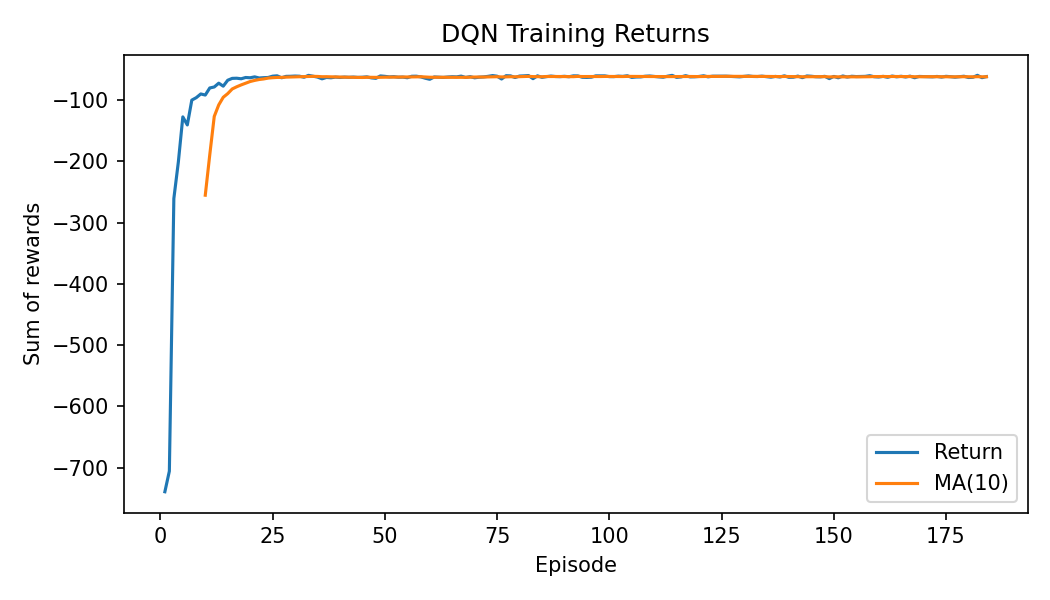
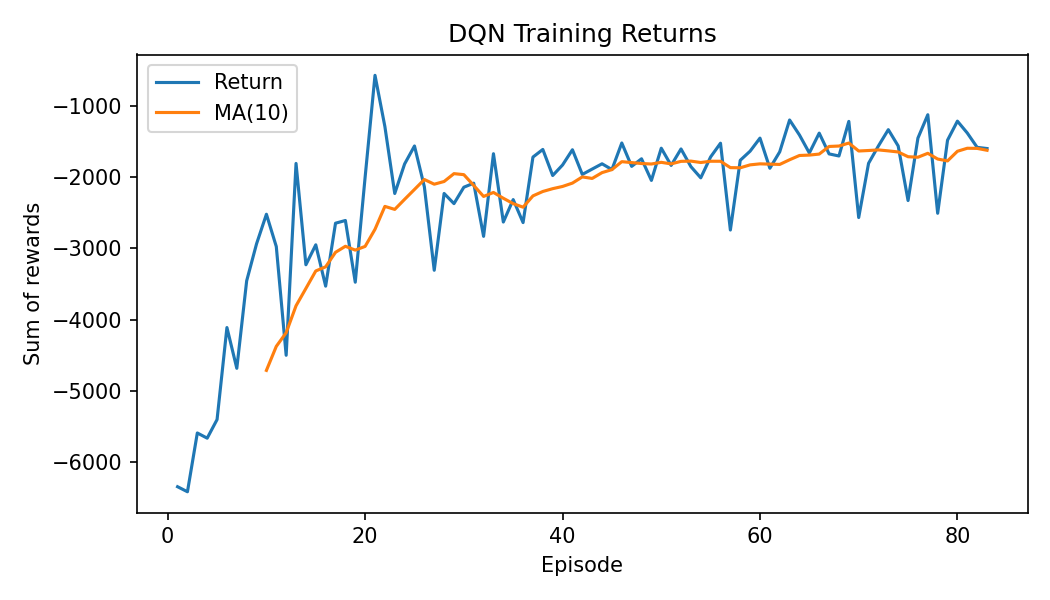
add tracking and improving car-following behavior

diff --git a/rl_mixed_traffic/env/ring_env.py b/rl_mixed_traffic/env/ring_env.py
@@ -37,7 +37,7 @@ class RingRoadEnv(gym.Env):
         sumo_config: SumoConfig,
         agent_id: str = "car1",
         gui: bool = False,
-        max_accel: float = 3.0,
+        max_accel: float = 8.0,
         min_accel: float = -3.0,
         episode_length: float = 500.0,
         num_vehicles: int = 3,
@@ -72,7 +72,7 @@ class RingRoadEnv(gym.Env):
         # What should be the good scenario for the controlling vehicle?
 
         self.cmd_speed = 0.0
-        self.v_max = 30.0
+        self.v_max = 50.0
 
     @property
     def action_space(self):
@@ -151,7 +151,6 @@ class RingRoadEnv(gym.Env):
         self.open_traci()
         self.step_count = 0
         self.cmd_speed = 0.0
-        self.v_max = 30.0
 
         # Warm up the simulation
         warmup = 0
@@ -160,7 +159,8 @@ class RingRoadEnv(gym.Env):
             warmup += 1
 
         if self.agent_id in traci.vehicle.getIDList():
-            self.v_max = traci.vehicle.getMaxSpeed(self.agent_id)
+            traci.vehicle.setSpeedMode(self.agent_id, 95)   # 0b1011111
+            traci.vehicle.setMaxSpeed(self.agent_id, self.v_max)
             v_now = traci.vehicle.getSpeed(self.agent_id)
             self.cmd_speed = max(0.5, min(v_now, self.v_max))
 
@@ -223,7 +223,7 @@ class RingRoadEnv(gym.Env):
             a = float(np.array(action, dtype=np.float32).reshape(-1)[0])
         else:
             a = float(action)
-        a = float(np.clip(a, self.min_accel, self.max_accel))
+            a = float(np.clip(a, self.min_accel, self.max_accel))
 
         if self.agent_id in traci.vehicle.getIDList():
             self.apply_acceleration(self.agent_id, a, smooth=False)
@@ -304,7 +304,6 @@ class RingRoadEnv(gym.Env):
         else:
             mean_v = traci.vehicle.getSpeed(self.agent_id)
 
-        # Ego + leader
         v_ego = traci.vehicle.getSpeed(self.agent_id)
         v_lead = 0.0
         d_gap = 1e9
@@ -312,20 +311,30 @@ class RingRoadEnv(gym.Env):
         if lead:
             lead_id, d_gap = lead
             v_lead = traci.vehicle.getSpeed(lead_id)
+        else:
+            try:
+                ids = list(traci.vehicle.getIDList())
+                pos = {vid: traci.vehicle.getDistance(vid) for vid in ids}
+                pos_ego = pos[self.agent_id]
+                deltas = [(vid, (pos[vid] - pos_ego)) for vid in ids if vid != self.agent_id]
+                ahead = [(vid, d) for vid, d in deltas if d > 0]
+                if ahead:
+                    lead_id, d_gap = min(ahead, key=lambda x: x[1])
+                else:
+                    lead_id, d_gap = min(deltas, key=lambda x: abs(x[1]))
+            except traci.TraCIException:
+                pass
 
-        # -------- Efficiency-forward terms --------
+        # print(f"Lead ID: {lead_id}, Gap: {d_gap}")
+
         # 1) progress (pay per distance)
         R_prog = v_ego / V_MAX
 
-        # 2) target-speed tracking (prefer fast cruise but don't ignore leader)
-        # v_star = min(0.9 * V_MAX, v_lead + 3.0)
-        # R_target = 1.0 - ((v_ego - v_star) / V_MAX) ** 2  # peaks at 1 when v≈v_star
-
-        # 3) platoon mean (small nudge upward)
+        # 2) platoon mean (small nudge upward)
         R_mean = (mean_v / V_MAX)
 
-        # 4) stronger penalty for lingering at low speed
-        v_thresh = 0.5 * V_MAX
+        # 3) stronger penalty for lingering at low speed
+        v_thresh = 0.7 * V_MAX
         R_low = - max(0.0, (v_thresh - v_ego) / max(1e-6, v_thresh))
 
         # Safety guardrail (small)
@@ -336,22 +345,53 @@ class RingRoadEnv(gym.Env):
         tau_safe = 0.6  # aggressive but nonzero
         R_ttc = -0.02 * ((tau_safe - ttc) / tau_safe) if ttc < tau_safe else 0.0
 
+        # 3) Tracking head vehicle (within the range)
+        gap_des = 7.5
+        gap_scale = max(1e-6, gap_des)
+        w_gap = 1.0 / (1.0 + (free_gap / gap_scale))
+
+        dv = v_ego - v_lead
+
+        # Speed match penalty
+        w_track = 0.6
+        R_track = - w_track * min(1.0, dv) * w_gap if lead_id is not None else 0.0
+
+        # Time headway -> penalize being too far
+        v_eps = 1e-6
+        TH = d_gap / max(v_ego, v_eps)
+
+        # Threshold for inefficiency (seconds)
+        TH_threshold = 2.5
+        r_th = -1.0 if TH >= TH_threshold else 0.0
+
+        # Penalize collisions
+        ego_collided = False
+        try:
+            collided_ids = set(traci.simulation.getCollidingVehiclesIDList())
+            ego_collided = (self.agent_id in collided_ids)
+        except Exception:
+            pass
+
+        R_collide = -100.0 if ego_collided else 0.0
+
         # Fuel consumption penalty
         # mpg = miles_per_gallen()
         # R_fuel = -0.1 * (1.0 / max(mpg, 1e-6))
 
-        # print(f"Step {self.step_count}: R_prog={R_prog:.3f}, R_mean={R_mean:.3f}, R_low={R_low:.3f}, R_ttc={R_ttc:.3f}")
+        # print(f"Step {self.step_count}: R_prog={R_prog:.3f}, R_mean={R_mean:.3f}, R_low={R_low:.3f}, R_ttc={R_ttc:.3f}, R_track={R_track:.3f}")
 
-        # Combine (weights emphasize efficiency)
         R = (
             1.0 * R_prog +
-            # 1.0 * R_target +
             0.5 * R_mean +
             0.7 * R_low +
-            0.15 * R_ttc
+            0.15 * R_ttc +
+            0.7 * R_track +
+            R_collide +
+            0.7 * r_th
             # 0.1 * R_fuel
         )
-        return float(np.clip(R, -2.0, 2.0))
+        return float(R)
+
 
     def terminal(self) -> bool:
         if self.step_count >= self.max_steps:

diff --git a/rl_mixed_traffic/dqn_train.py b/rl_mixed_traffic/dqn_train.py
@@ -20,7 +20,7 @@ def make_env(gui: bool=False, num_bins=21):
     env = DiscretizeActionWrapper(base_env, num_bins)
     return env
 
-def train(total_steps: int = 500_000, num_bins=21):
+def train(total_steps: int = 350_000, num_bins=21):
     env = make_env(gui=False, num_bins=num_bins)
 
     returns = []
@@ -44,25 +44,26 @@ def train(total_steps: int = 500_000, num_bins=21):
         s_next, r, done, _ = env.step(a)
         agent.buffer.append((s, a, r, s_next, done))
         loss = agent.learn()
-        losses.append(loss)
 
         s = s_next
         ep_ret += r
         ep_len += 1
 
         if done:
-            print(f"Step: {t}, Episode Return: {ep_ret}, Episode Length: {ep_len}")
+            print(f"Step: {t}, Episode Return: {ep_ret}, Episode Length: {ep_len}, Epsilon: {agent.epsilon():.3f}")
             returns.append(ep_ret)
+            if loss is not None:
+                losses.append(float(loss))
             s, _ = env.reset()
             ep_ret, ep_len = 0.0, 0
 
-    agent.save("dqn_agent.pth")
+    agent.save("dqn_results/dqn_agent.pth")
     env.close()
 
     # Plot training losses
     plot_losses(
         losses,
-        out_path="dqn_training_losses.png",
+        out_path="dqn_results/dqn_training_losses.png",
         title="DQN Training Losses"
     )
     return returns

diff --git a/rl_mixed_traffic/configs/dqn_config.py b/rl_mixed_traffic/configs/dqn_config.py
@@ -4,16 +4,15 @@ import torch
 @dataclass
 class DQNConfig:
     gamma: float = 0.99
-    lr: float = 3e-4
+    lr: float =5e-4
     batch_size: int = 128
     buffer_size: int = 200_000
-    start_learning_after: int = 5_000
+    start_learning_after: int = 10_000  
     train_freq: int = 1
-    target_update_freq: int = 1_000   # steps
-    tau: float = 1.0                  # hard update if 1.0; else soft update factor
+    target_update_freq: int = 3_000   # steps
+    tau: float = 0.01                  # hard update if 1.0; else soft update factor
     epsilon_start: float = 1.0
-    epsilon_end: float = 0.05
-    epsilon_decay_steps: int = 50_000
+    epsilon_end: float = 0.10
+    epsilon_decay_steps: int = 500_000
     max_grad_norm: float = 10.0
-    huber_delta: float = 1.0
     device: str = "cuda" if torch.cuda.is_available() else "cpu"

diff --git a/rl_mixed_traffic/dqn_eval.py b/rl_mixed_traffic/dqn_eval.py
@@ -50,4 +50,4 @@ def evaluate(agent_path: str, gui: bool = True, num_bins: int = 21):
         env.close()
 
 if __name__ == "__main__":
-    evaluate(agent_path="dqn_agent.pth", gui=True, num_bins=21)
+    evaluate(agent_path="dqn_results/dqn_agent.pth", gui=True, num_bins=21)

diff --git a/rl_mixed_traffic/eval_policy.py b/rl_mixed_traffic/eval_policy.py
@@ -30,7 +30,6 @@ def eval_policy(q_table_path: str, gui: bool = True):
 
     try:
         s, _ = env.reset()
-        s = state_discretizer(s)
         done = False
         G = 0.0
         steps = 0
